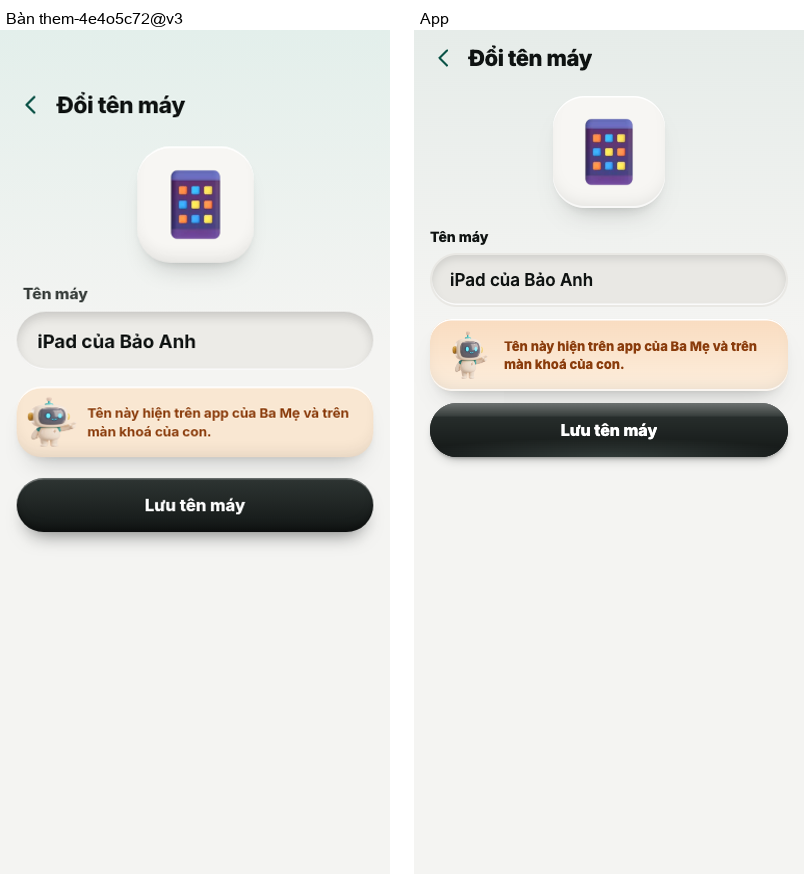
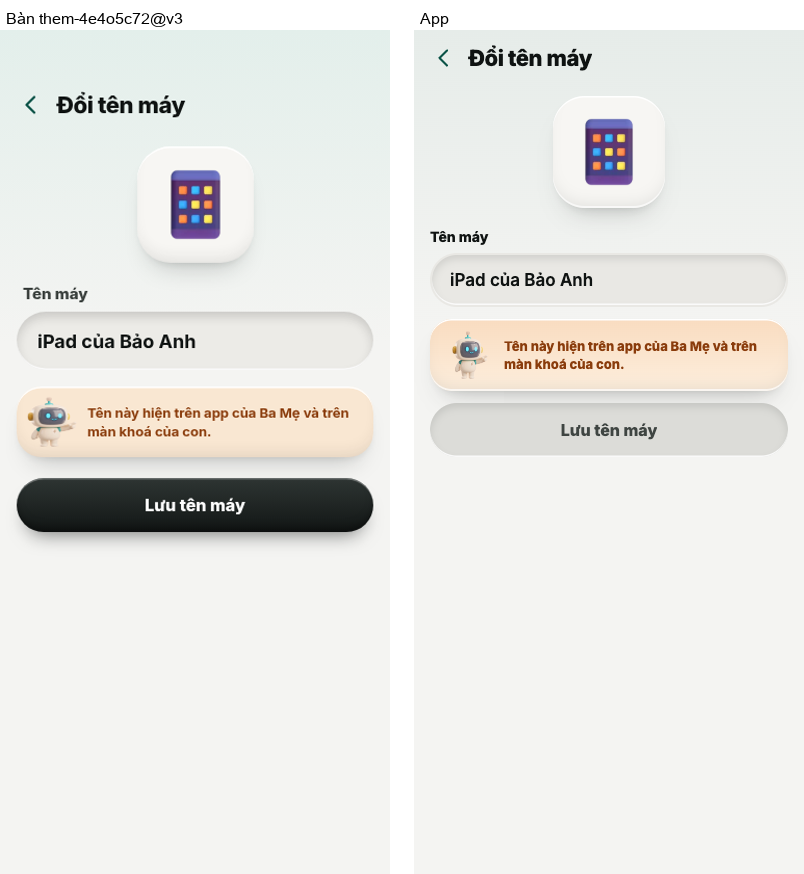
Sửa theo review #341: đổi tên so theo tên ngắn, báo ở màn đích, «Để sau» về màn trước
- doi-ten: so trùng / so «không đổi» theo tên đã bỏ « · <hệ điều hành>»; Lưu tắt khi chưa đổi; giới hạn 30 chữ chỉ nhắc khi Ba Mẹ đã sửa; lưu xong báo «Đã đổi tên máy thành …» ở màn máy
- Gỡ máy: câu «Đã gửi lệnh gỡ …» hiện ở «Máy của con» (baoKhiVe)
- sua: giữ câu «Grow kiểm lại ở lần máy báo về kế tiếp…», về «Máy của con» tự tải lại
- m2 «Để sau»: về màn trước (Trang chủ / Máy của con); mở thẳng ⇒ Trang chủ
- may-nhieu-con: bỏ bản sao tenGoiCon, dùng tenGoi; JSDoc nganTen về đúng chỗ

Claude-Session: https://claude.ai/code/session_01DSu591D8CbBg6o268DT8cz

Changed region(s): [[0.5286, 0.4634, 0.995, 0.5252]]

diff --git a/mobile/src/app/may/[id].tsx b/mobile/src/app/may/[id].tsx
@@ -21,7 +21,7 @@ import {
   appTrenMay, AvtCon, BangKhoaTheoMay, conCuaMay, mayCuaCon, nganTen as ngan, ganBoCon, hinhMay, keDau, laMayChung, laMotCon, MucPhai, SaoNho, TEN_NEN, TheDs, type ConMay, type ConNganMay,
 } from "@/lib/may-nhieu-con";
 import {
-  BangTruot, Bao, BaoLoi, BieuTron, Chips, ChoTai, Chu, CongTac, Dong, gioPhut, HaiNut, Icon3D, M, Man, Nhom, NhomTieu, Nut, ONhap, Rob, TickDong, truoc, useHoanTac, useLam, useTai,
+  BangTruot, Bao, BaoLoi, baoKhiVe, BieuTron, Chips, ChoTai, Chu, CongTac, Dong, gioPhut, HaiNut, Icon3D, M, Man, Nhom, NhomTieu, Nut, ONhap, Rob, TickDong, truoc, useHoanTac, useLam, useTai,
 } from "@/lib/ui";
 import { BONG, KHOI } from "@/lib/clay";
 
@@ -100,10 +100,11 @@ export default function AnToanMay() {
       const r = await bm.goi<KqGoMay>(`may/${id}/go`, { matKhau: mk, ...(xoaHan ? { xoaHan: true } : {}) });
       dong();
       if (r.trangThai === "da_xoa") { bao(r.canGoTaiMay ? "Đã xoá khỏi danh sách — nhớ gỡ tại máy nếu AiiGrow còn trên đó" : "Đã xoá máy khỏi danh sách"); await tai(); return; }
-      bao(r.lapLai ? `${d?.m?.ten ?? "Máy"} đã có lệnh gỡ đang chờ` : `Đã gửi lệnh gỡ tới ${d?.m?.ten ?? "máy"}`);
-      // thiết kế them-v4ovqk42 / them-18q14mik: gỡ xong về «Máy của con» (máy hiện «Đang gỡ AiiGrow khỏi máy này» tới khi máy báo đã gỡ)
-      if (!xoaHan) { router.dismissTo("/may"); return; }
-      await tai();
+      const chu = r.lapLai ? `${d?.m?.ten ?? "Máy"} đã có lệnh gỡ đang chờ` : `Đã gửi lệnh gỡ tới ${d?.m?.ten ?? "máy"}`;
+      // thiết kế them-v4ovqk42 / them-18q14mik: gỡ xong về «Máy của con» (máy hiện «Đang gỡ AiiGrow khỏi máy này» tới khi máy báo đã gỡ);
+      // câu báo hiện ở màn đích (baoKhiVe — useHoanTac của «Máy của con» nhận)
+      if (!xoaHan) { baoKhiVe(chu); router.dismissTo("/may"); return; }
+      bao(chu); await tai();
     } catch (e) {
       // Máy chưa đồng bộ lần nào ⇒ không nhận được lệnh gỡ ⇒ hỏi lại: xoá hẳn khỏi danh sách
       if (e instanceof LoiApi && e.ma === "can_xoa_han") { setLoi(null); setMo("xoa"); return; }
@@ -283,7 +284,8 @@ export default function AnToanMay() {
       {/* «Đổi tên máy» luôn có cho Ba Mẹ (cả lúc máy đang gỡ — chỉ ẩn «Gỡ máy này») */}
       {!tot ? <>
         {nutSuaGo}
-        <Nut chu="Để sau" loai="vien" rong bam={() => router.dismissTo("/hom-nay")} />
+        {/* data-toi bm2-trang-chu: về màn trước (Trang chủ hoặc Máy của con); mở thẳng (không có màn trước) ⇒ Trang chủ */}
+        <Nut chu="Để sau" loai="vien" rong bam={() => (router.canGoBack() ? router.back() : router.replace("/hom-nay"))} />
       </> : null}
 
       {/* m1: hai ô nổi — app đang mở (phút trên máy này) · sao còn của bé (= phút chơi) */}

diff --git a/mobile/src/app/may/[id]/doi-ten.tsx b/mobile/src/app/may/[id]/doi-ten.tsx
@@ -10,8 +10,8 @@ import { Pressable, View } from "react-native";
 import { bm, chuanHoaTen, type ChiTietTuanThu, type GiaDinh, type TuanThuMay } from "@/lib/api";
 import { BONG, KHOI } from "@/lib/clay";
 import { tenGoi } from "@/lib/hang-ngay";
-import { CapAvt, conCuaMay, DauHaiDong, hinhMay, laMayChung, type ConNganMay } from "@/lib/may-nhieu-con";
-import { BaoLoi, ChoTai, Chu, Icon, Icon3D, M, Man, Nut, ONhap, Rob, useLam, useTai } from "@/lib/ui";
+import { CapAvt, conCuaMay, DauHaiDong, hinhMay, laMayChung, nganTen, type ConNganMay } from "@/lib/may-nhieu-con";
+import { BaoLoi, baoKhiVe, ChoTai, Chu, Icon, Icon3D, M, Man, Nut, ONhap, Rob, useLam, useTai } from "@/lib/ui";
 
 /** Tối đa 30 chữ (thiết kế them-tw6apkag) — máy chủ nhận tới 80 (tên lúc ghép), app giữ tên ngắn để vừa thẻ máy. */
 const TOI_DA = 30;
@@ -39,15 +39,20 @@ export default function DoiTenMay() {
   const lui = () => (router.canGoBack() ? router.back() : router.replace({ pathname: "/may/[id]", params: { id } }));
   if (!d) return <Man dau={<DauHaiDong tieu="Đổi tên máy" lui={lui} />}><ChoTai loi={loi} matMang={matMang} tai={tai} /></Man>;
   const { m, con } = d;
-  const gt = ten ?? m.ten.replace(/ · .*$/, "");
+  const cu = chuanHoaTen(nganTen(m.ten));
+  const gt = ten ?? cu;
   const moi = chuanHoaTen(gt);
-  const dai = [...moi].length > TOI_DA;
-  const trung = !!moi && d.khac.some((x) => chuanHoaTen(x).toLowerCase() === moi.toLowerCase());
+  const doi = moi !== cu;
+  // tên cũ dài hơn 30 (đặt lúc ghép, máy chủ nhận tới 80) ⇒ chỉ nhắc khi Ba Mẹ đã sửa
+  const dai = doi && [...moi].length > TOI_DA;
+  // so theo tên đã bỏ « · <hệ điều hành>» (agent cũ gắn hậu tố)
+  const trung = !!moi && d.khac.some((x) => chuanHoaTen(nganTen(x)).toLowerCase() === moi.toLowerCase());
   const chung = con.length >= 2 || laMayChung(m);
   const tot = m.baoVe ? m.baoVe === "day_du" : m.trangThai === "tuan_thu";
   const goiY = ["Phòng khách", "Phòng học", "Phòng ngủ", ...(con.length ? [`Của ${tenCacBe(con)}`] : [])];
   const luu = () => lam(async () => {
-    if (moi !== chuanHoaTen(m.ten)) await bm.goi(`may/${id}/doi-ten`, { ten: moi });
+    await bm.goi(`may/${id}/doi-ten`, { ten: moi });
+    baoKhiVe(`Đã đổi tên máy thành ${moi}`);
     lui();
   });
   const nhacGrow = (dao: boolean, chu: string) => (
@@ -119,7 +124,7 @@ export default function DoiTenMay() {
       </>}
       {/* thiết kế: nút ngay dưới nội dung (không ghim đáy) */}
       <BaoLoi loi={loiLam} />
-      <Nut chu="Lưu tên máy" rong dangChay={dangChay} tat={!moi || dai} bam={luu} />
+      <Nut chu="Lưu tên máy" rong dangChay={dangChay} tat={!moi || !doi || dai} bam={luu} />
     </Man>
   );
 }

diff --git a/mobile/src/lib/may-nhieu-con.tsx b/mobile/src/lib/may-nhieu-con.tsx
@@ -9,6 +9,7 @@ import { BONG, KHOI } from "@/lib/clay";
 import { mauHoSo } from "@/lib/lan-dau";
 import { Avt, BangTruot, BaoLoi, Chu, F, Icon, Icon3D, M, Nut, useLam, type TenIcon } from "@/lib/ui";
 import { datKhoaMay } from "@/lib/khoa-may";
+import { tenGoi } from "@/lib/hang-ngay";
 
 export type ConNganMay = { id: string; ten: string; avatar: string };
 /** Một Con trong `GET may/:id/con › ds` (mọi Con trong nhà, kèm đã gán vào máy chưa). */
@@ -39,8 +40,6 @@ export const mayCuaCon = (m: Pick<TuanThuMay, "con" | "dungChung" | "conDs">, co
 export const laMayChung = (m: Pick<TuanThuMay, "con" | "dungChung" | "conDs" | "soCon">) => (m.soCon ?? m.conDs?.length ?? (m.con ? 1 : m.dungChung ? 2 : 0)) >= 2;
 
 /** Tên máy bỏ hậu tố « · <hệ điều hành>» agent cũ gắn («Laptop của Bảo Anh · Windows 11» ⇒ «Laptop của Bảo Anh»). */
-/** tên gọi của bé (2 chữ cuối) — như hang-ngay › tenGoi (không nhập để tránh vòng nhập hang-ngay ↔ tệp này) */
-const tenGoiCon = (ten: string) => ten.trim().split(/\s+/).slice(-2).join(" ");
 export const nganTen = (t: string) => t.replace(/ · .*$/, "");
 /** Tên gốc để so khớp (bỏ cả « của <bé>»): «Laptop của Bảo Anh · Windows 11» ⇒ «Laptop». */
 export const tenGocMay = (t: string) => nganTen(t).replace(/ của .*$/, "");
@@ -162,7 +161,7 @@ export function BangKhoaTheoMay({ mo, dong, may, con, dangDung, app, khac, xong 
             <View key={c.id} style={[{ flexDirection: "row", alignItems: "center", gap: 12, minHeight: 60 }, keDau(k)]}>
               <AvtCon c={c} co={36} />
               <View style={{ flex: 1, minWidth: 0 }}>
-                <Chu kieu="rat" dong={1}>{tenGoiCon(c.ten)}</Chu>
+                <Chu kieu="rat" dong={1}>{tenGoi(c.ten)}</Chu>
                 {c.id === dangDung
                   ? <Chu kieu="dam" co={12.5} mau="#565c59" dong={1}><Chu kieu="rat" co={12.5} mau={M.chinh}>● Đang dùng</Chu>{app ? ` · ${app}` : ""}</Chu>
                   : <Chu kieu="dam" co={12.5} mau="#565c59" dong={1}>Không vào được máy này</Chu>}

diff --git a/mobile/src/app/may/[id]/sua.tsx b/mobile/src/app/may/[id]/sua.tsx
@@ -6,7 +6,7 @@ import { View } from "react-native";
 import { bm, type ChiTietTuanThu } from "@/lib/api";
 import { BONG, KHOI } from "@/lib/clay";
 import { DauHaiDong, nganTen } from "@/lib/may-nhieu-con";
-import { ChoTai, Chu, Icon3D, M, Man, Nut, useTai } from "@/lib/ui";
+import { baoKhiVe, ChoTai, Chu, Icon3D, M, Man, Nut, useTai } from "@/lib/ui";
 
 const HINH = ["banhrang", "dong_ho_cat", "khoa"] as const;
 
@@ -35,7 +35,8 @@ export default function SuaMay() {
           </View>
         ))}
       </View>
-      <Nut chu="Đã làm xong, kiểm tra lại" rong bam={() => router.dismissTo("/may")} />
+      {/* «Máy của con» tự tải lại khi hiện lại (useTai) ⇒ thấy trạng thái mới; báo Grow kiểm lại ở lần máy báo về */}
+      <Nut chu="Đã làm xong, kiểm tra lại" rong bam={() => { baoKhiVe("Grow kiểm lại ở lần máy báo về kế tiếp (thường dưới 3 phút)"); router.dismissTo("/may"); }} />
       <Nut chu="Làm không được? Hỏi AiiGrow" loai="ma" rong bam={() => router.push("/hoi-aiigrow")} />
     </Man>
   );
